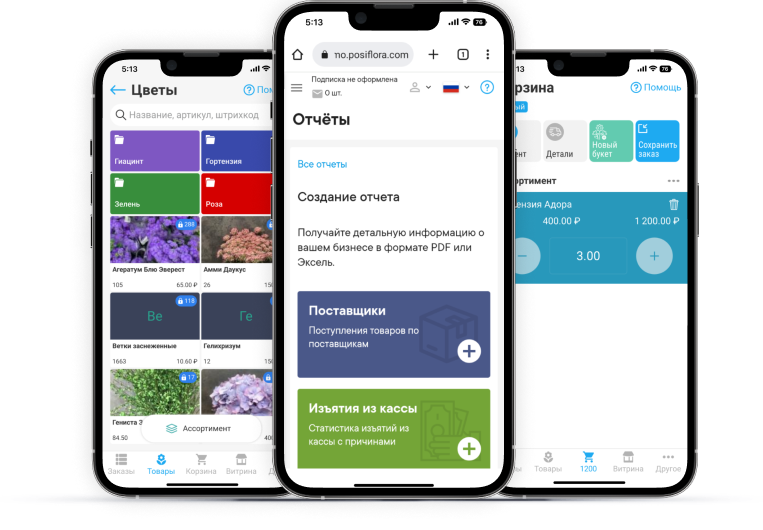
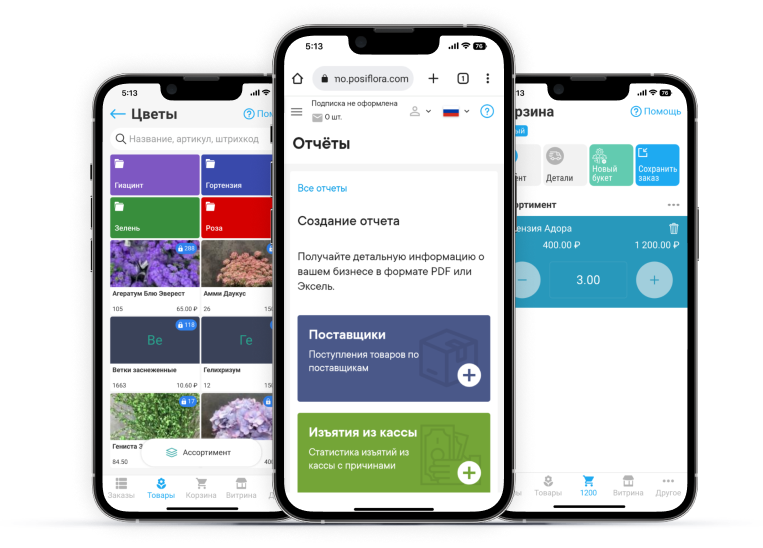
fff

Changed region(s): [[0.1206, 0.0, 0.9345, 0.966]]

diff --git a/index.html b/index.html
@@ -355,6 +355,28 @@
                         <div class="img"><img src="img/f01.png" alt=""></div>
                      </div>
                   </div>
+                  <div class="swiper-slide">
+                     <div class="item">
+                        <div class="info">
+                           <div class="title">Ссылка для быстрой продажи</div>
+                           <p>В Посифлоре флористы могут создать ссылку для быстрой продажи букета: её можно разместить
+                              в профиле соцсетей, таплинке или отправить клиенту в личных сообщениях. Клиент заполняет
+                              информацию, а флористы тут же видят заявку и начинают собирать букет.</p>
+                        </div>
+                        <div class="img"><img src="img/f01.png" alt=""></div>
+                     </div>
+                  </div>
+                  <div class="swiper-slide">
+                     <div class="item">
+                        <div class="info">
+                           <div class="title">Ссылка для быстрой продажи</div>
+                           <p>В Посифлоре флористы могут создать ссылку для быстрой продажи букета: её можно разместить
+                              в профиле соцсетей, таплинке или отправить клиенту в личных сообщениях. Клиент заполняет
+                              информацию, а флористы тут же видят заявку и начинают собирать букет.</p>
+                        </div>
+                        <div class="img"><img src="img/f01.png" alt=""></div>
+                     </div>
+                  </div>
 
                </div>
 
@@ -363,6 +385,7 @@
             <div class="swiper-button-next sw4n"></div>
          </div>
       </section>
+      <section class=""></section>
 
    </main>
    <footer class="footer"></footer>

diff --git a/css/style.scss b/css/style.scss
@@ -263,9 +263,9 @@ h2 {
       }
    }
    .iphones {
-      margin: 0px auto;
+      margin: -23px auto 0px auto;
       width: 763px;
-      height: 507px;
+      height: 548px;
       background: url("../img/iPhones.png") no-repeat;
       background-position-y: top;
       background-size: cover;
@@ -412,6 +412,12 @@ h2 {
    padding: 120px 0px 0px 0px;
 }
 .functions {
+   .img {
+      margin-top: -7px;
+   }
+   .swiper-wrapper {
+      padding: 30px;
+   }
    .container {
       position: relative;
    }

diff --git a/css/style.css b/css/style.css
@@ -395,9 +395,9 @@ h2 {
 }
 
 .capabilities .iphones {
-  margin: 0px auto;
+  margin: -23px auto 0px auto;
   width: 763px;
-  height: 507px;
+  height: 548px;
   background: url("../img/iPhones.png") no-repeat;
   background-position-y: top;
   background-size: cover;
@@ -573,6 +573,14 @@ h2 {
 
 .functions {
   padding: 90px 0px 0px 0px;
+}
+
+.functions .img {
+  margin-top: -7px;
+}
+
+.functions .swiper-wrapper {
+  padding: 30px;
 }
 
 .functions .container {
